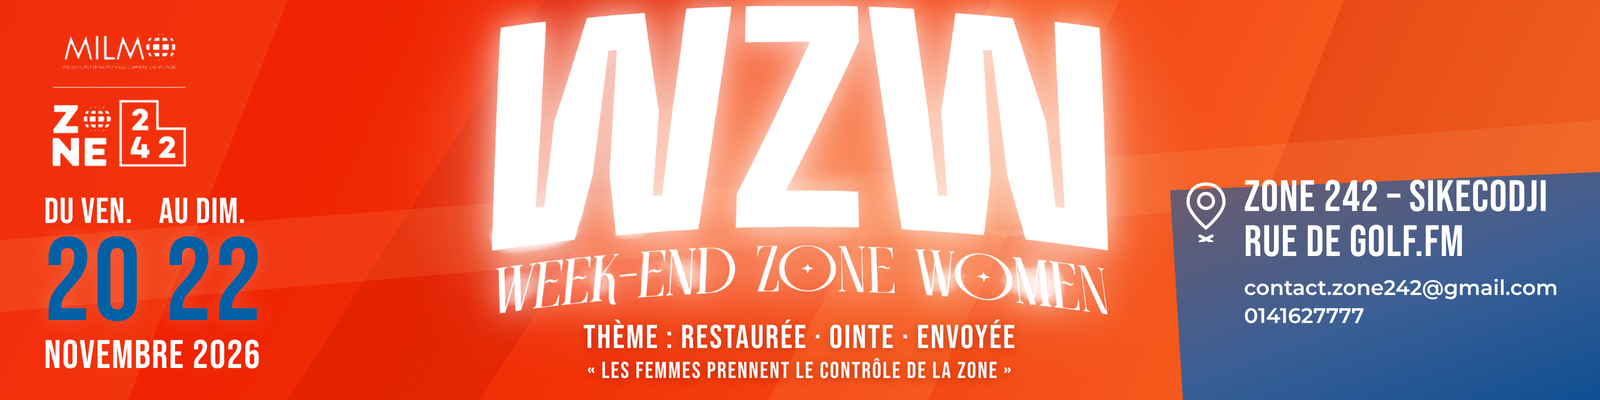
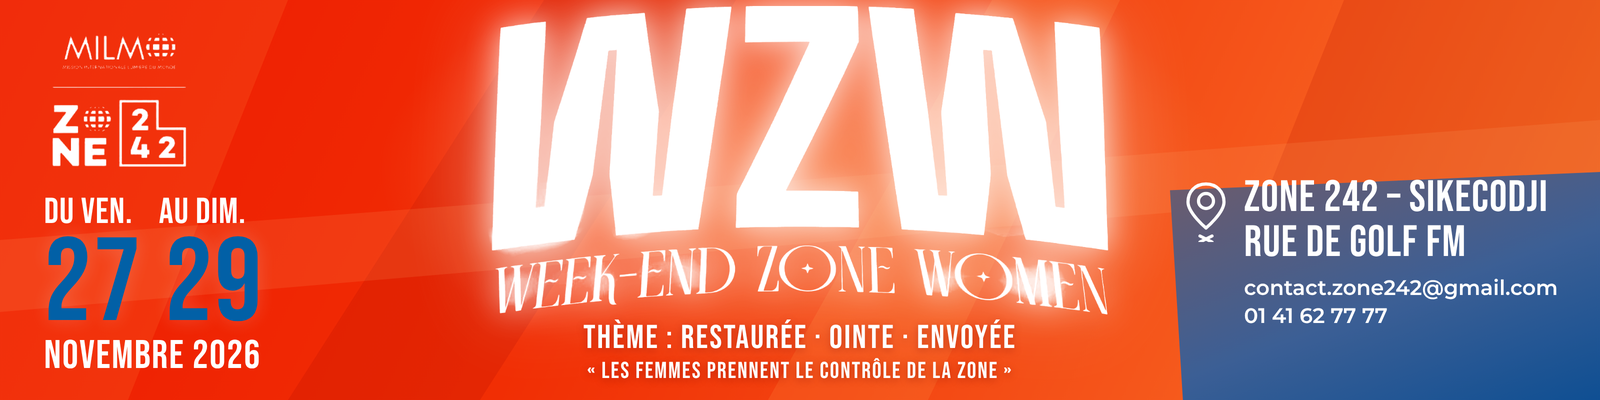
En-tête et script du Google Form mis à jour (27-29 nov., programme final, participation gratuite)
Claude-Session: https://claude.ai/code/session_01MwjzxB6vNBUzfK55D3M67f

diff --git a/zone242-com-session/livrables/scripts-sources/banniere_google_form.py b/zone242-com-session/livrables/scripts-sources/banniere_google_form.py
@@ -33,14 +33,14 @@ body{width:1600px;height:400px;overflow:hidden;position:relative;font-family:B;c
 <div class=shape></div><div class="shape s1"></div><div class="shape s2"></div><div class="shape s3"></div><div class="shape s4"></div><div class="shape s5"></div>
 <div class=glow></div>
 <img id=logo src=logos_alpha.png>
-<div id=dates><div class=l><span>DU VEN.</span><span>AU DIM.</span></div><div class=n><span>20</span><span>22</span></div><div class=m>NOVEMBRE 2026</div></div>
+<div id=dates><div class=l><span>DU VEN.</span><span>AU DIM.</span></div><div class=n><span>27</span><span>29</span></div><div class=m>NOVEMBRE 2026</div></div>
 <img id=titre src=titre_alpha3.png>
 <div id=theme>THÈME : RESTAURÉE · OINTE · ENVOYÉE</div>
 <div id=quote>« LES FEMMES PRENNENT LE CONTRÔLE DE LA ZONE »</div>
 <div id=blue></div>
 <div id=addr>
  <svg width=44 height=62 viewBox="0 0 44 62" fill="none" stroke="#fff" stroke-width="3.2" stroke-linecap="round" stroke-linejoin="round" style="margin-top:4px"><path d="M22 4C11 4 4 12 4 22c0 11 18 26 18 26s18-15 18-26C40 12 33 4 22 4z"/><circle cx=22 cy=21 r=7.5 /><path d="M16 56l12 6M28 56l-12 6"/></svg>
- <div><div class=t>ZONE 242 – SIKECODJI<br>RUE DE GOLF.FM</div><div class=c>contact.zone242@gmail.com<br>0141627777</div></div>
+ <div><div class=t>ZONE 242 – SIKECODJI<br>RUE DE GOLF FM</div><div class=c>contact.zone242@gmail.com<br>01 41 62 77 77</div></div>
 </div>
 <script>document.fonts.ready.then(()=>{window.r=1})</script>"""
 (H / "banniere.html").write_text(html)

diff --git a/zone242-com-session/CONTEXTE.md b/zone242-com-session/CONTEXTE.md
@@ -34,8 +34,8 @@ Thème : **Restaurée · Ointe · Envoyée**. Slogan : « Les femmes prennent le
 |---|---|
 | Plan de com et de design (PDF, 10 p., 22 idées vidéo) | `livrables/documents/` |
 | Brief graphiste mis à jour (avec « Save the date », échéance 4 nov.) | `livrables/documents/` |
-| Script du Google Form (16 questions, 150 places) | `livrables/formulaire/` |
-| En-tête Google Form 1600×400 et 3200×800 | `livrables/entetes/` |
+| Script du Google Form (mis à jour : programme final, 27-29 nov., Agapè, gratuit) | `livrables/formulaire/` |
+| En-tête Google Form 1600×400 et 3200×800 (dates 27-29 nov.) | `livrables/entetes/` |
 | Carrousel programme carré 1080×1080 (8 diapos, programme final, 27-29 nov.) | `livrables/carrousels/Programme_WZW_carre_*.png` |
 | Carrousel « 4 raisons de venir » carré (6 diapos, 1080×1080) | `livrables/carrousels/4_raisons_WZW_*.png` |
 | Présentation vidéo de Dr Hestia (10 s, 1920×1080, musique) | `presentation-dr-hestia/` (modèle réutilisable pour les autres intervenantes) |
@@ -48,9 +48,9 @@ Thème : **Restaurée · Ointe · Envoyée**. Slogan : « Les femmes prennent le
 | Film 3D ZONE 242 (en pause à la scène 1/9) | `zone242-motion-3d/` |
 
 ## 5. Points encore ouverts
-1. **Orthographe du nom** : l'affiche dit « Zone **Women** », le brief graphiste et le formulaire disent « Zone **Woman** ». À trancher partout.
-2. **Zone VIP** : existe-t-elle encore (sans prix) ? Les choix du formulaire proposent « zone normale » et « zone VIP ».
-3. **Lien d'inscription / QR code** : le formulaire n'est pas encore créé. Lancer le script sur script.google.com, puis demander le QR code et l'ajouter sur la diapo 6 du programme, l'affiche et les flyers.
+1. ~~Orthographe du nom~~ : tranché, « Zone Women » partout (hashtag #ZoneWoman conservé).
+2. ~~Zone VIP~~ : supprimée, participation gratuite.
+3. **Lien d'inscription / QR code** : le formulaire n'est pas encore créé. Lancer le script sur script.google.com, puis demander le QR code et l'ajouter sur la diapo 8 du programme carré, l'affiche et les flyers.
 4. **Palette et logo « Zone Women »** pour le graphiste ; **photos HD** des 12 autres intervenantes (déjà reçue : Dr Hestia) ; photo de la Prophétesse.
 5. **Affiche baptême** : brouillon sans illustration (fond « eau », « BAPTÊME », logo, adresse « Cotonou Sikecodji rue Golf FM », 1920×1080). Manque la personne plongée dans l'eau : demander une photo à détourer ou valider une silhouette stylisée.
 6. Textes à corriger côté programme : « Mme Tossou / Dr Hestia » (slash), « etc… », « L'équipe du MD » (préciser).
